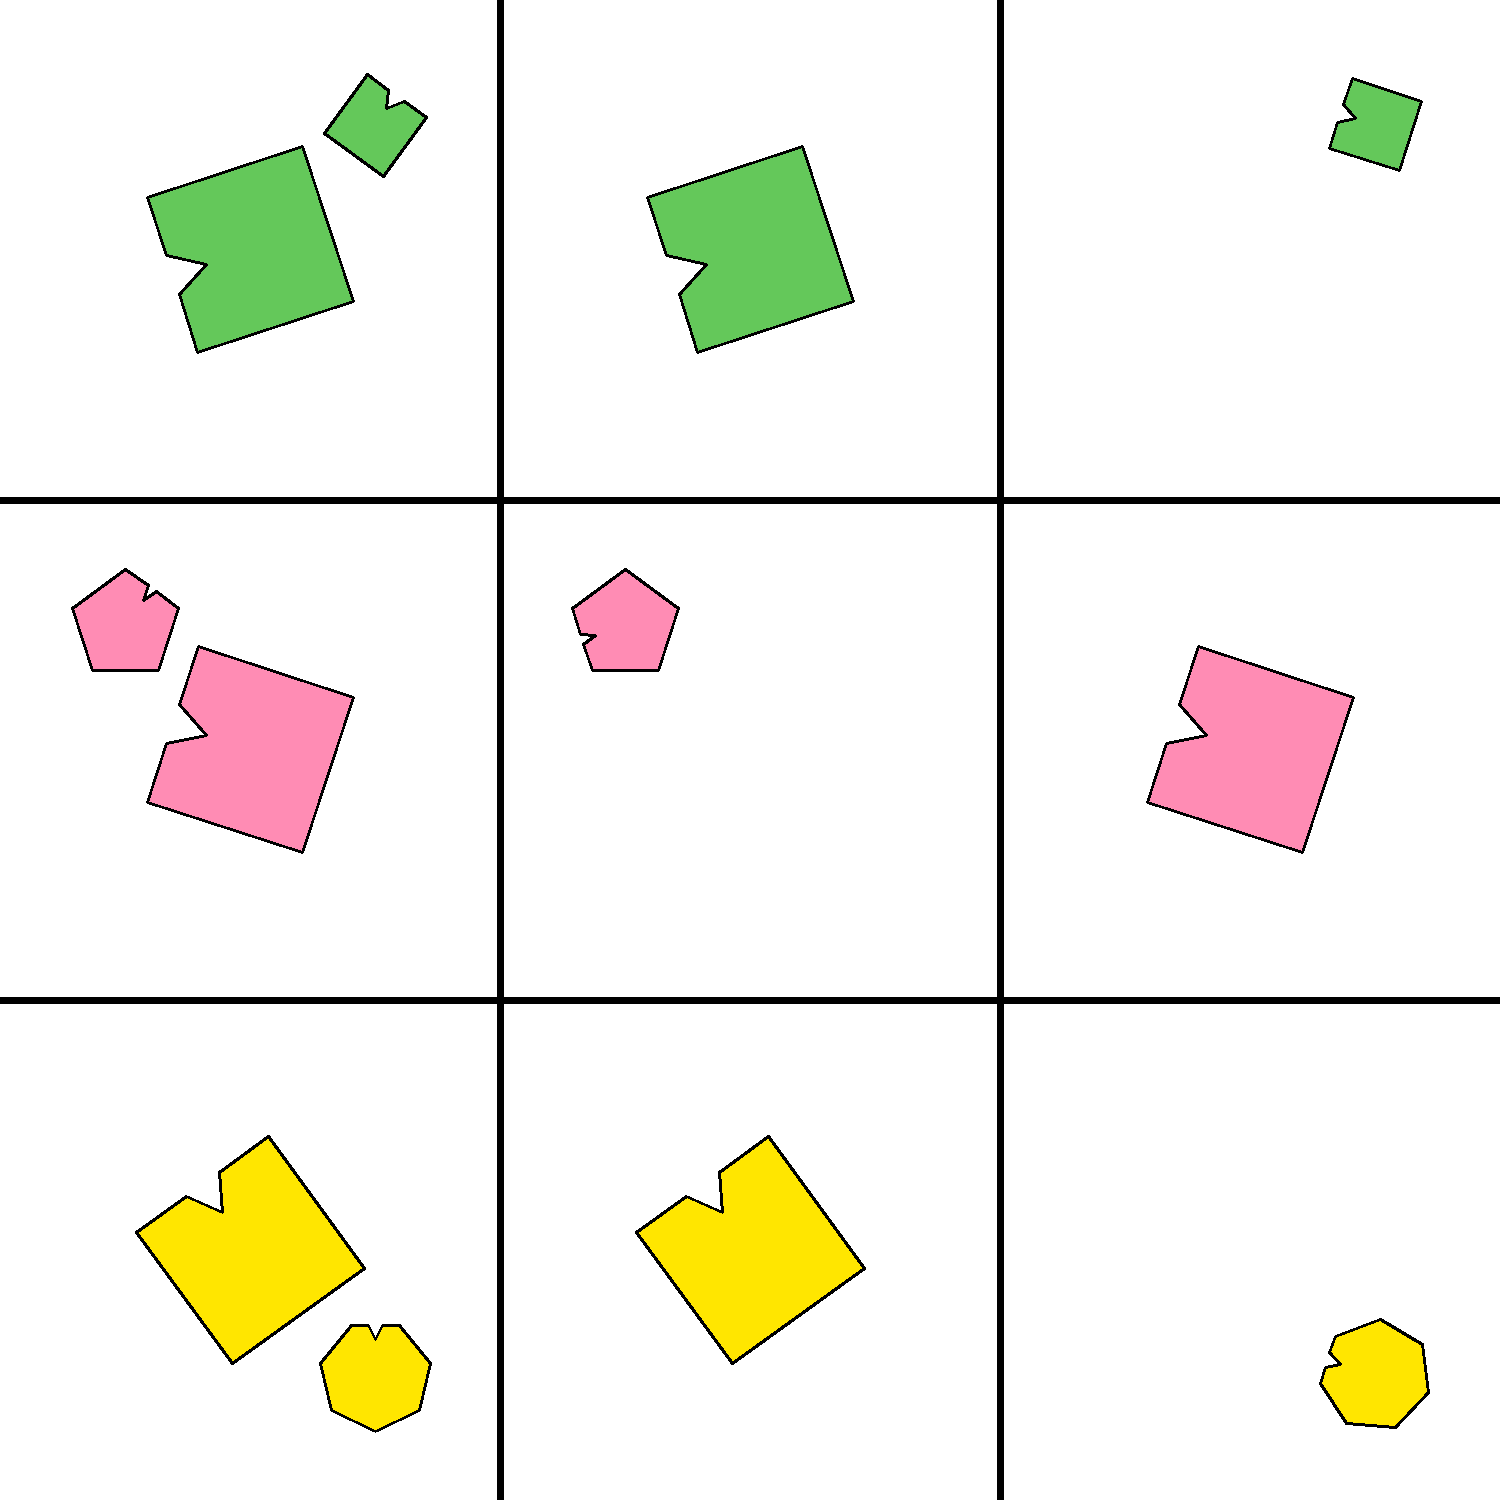
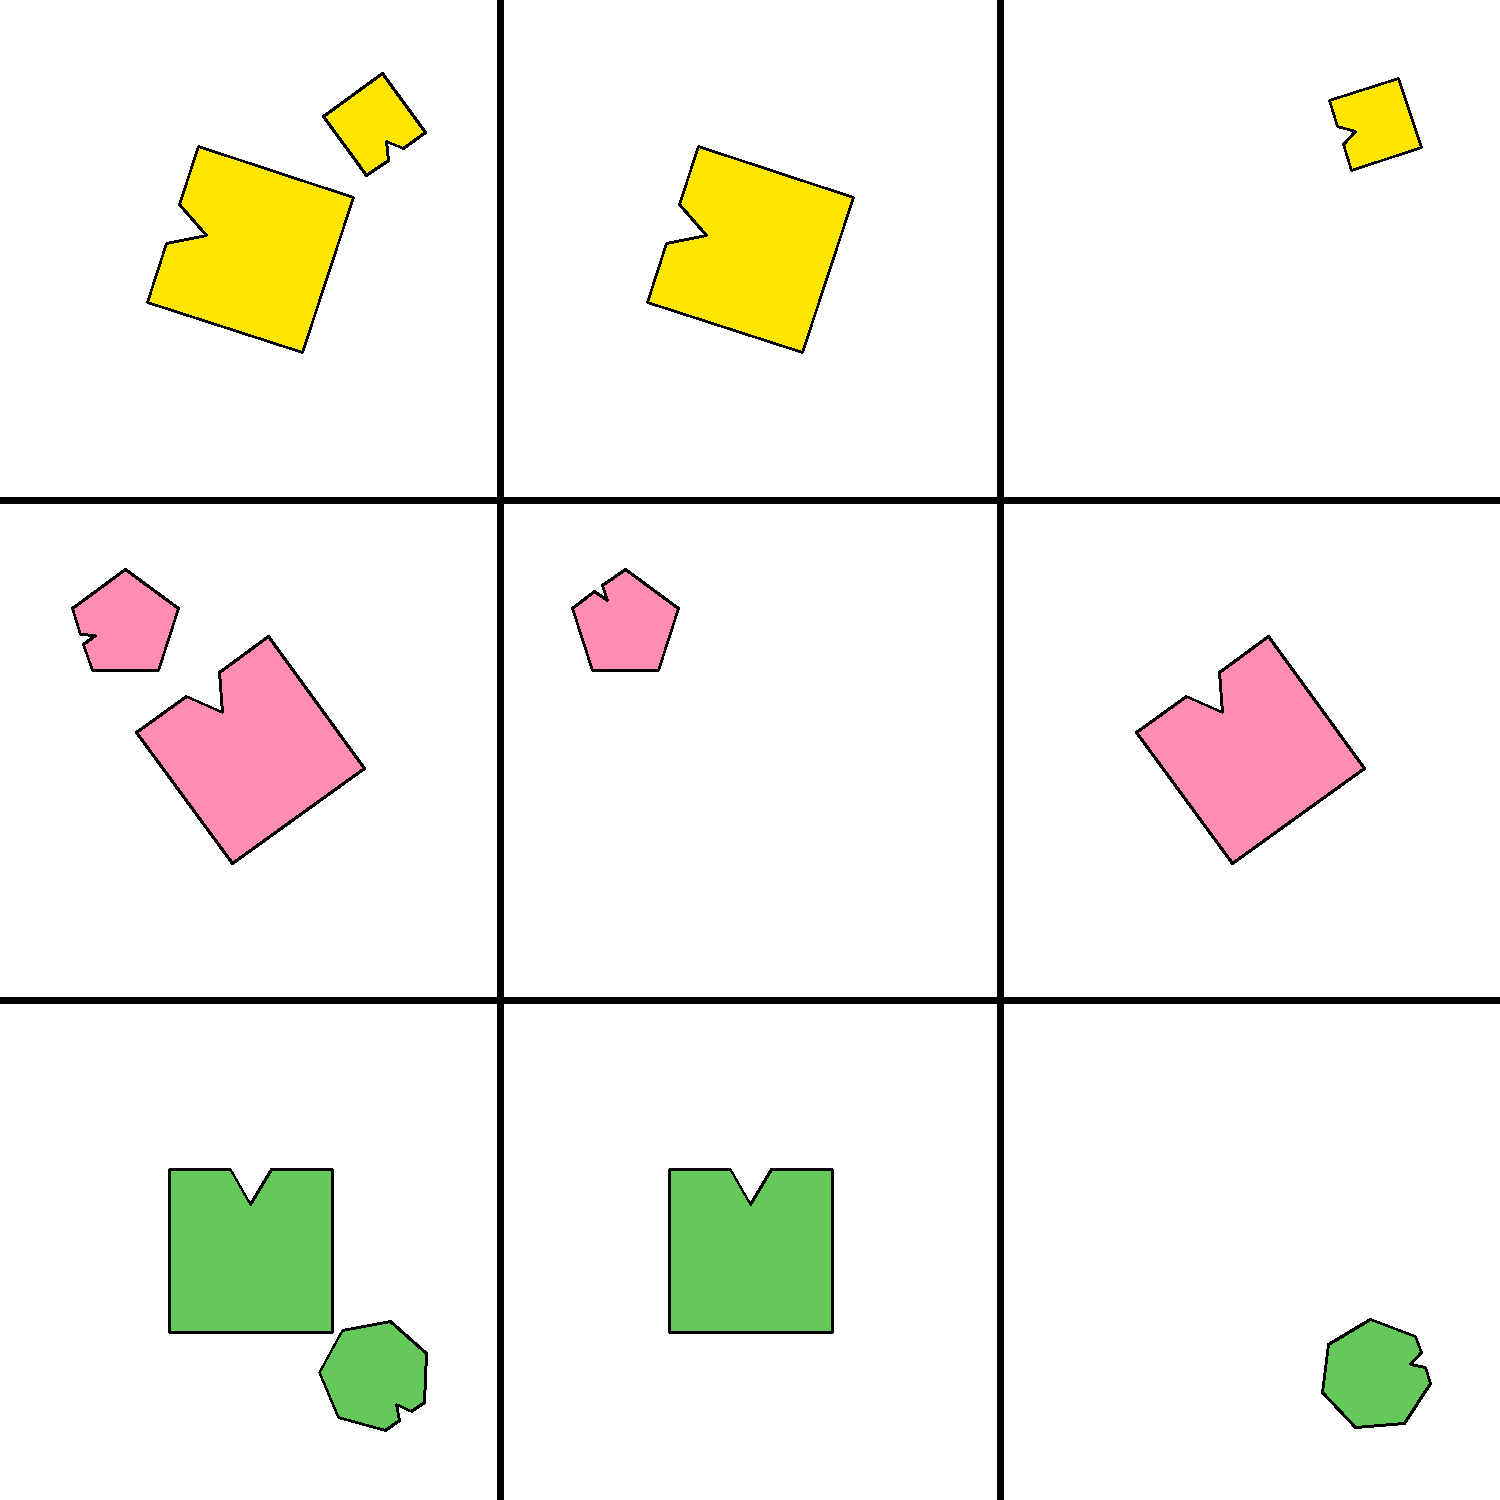
test

diff --git a/main.py b/main.py
@@ -11,7 +11,7 @@ rules = {
         Rule(Ruletype.FULL_CONSTANT, AttributeType.SHAPE, value = 'square'),
         Rule(Ruletype.CONSTANT, AttributeType.ANGLE),
         Rule(Ruletype.CONSTANT, AttributeType.COLOR),
-        Rule(Ruletype.ARITHMETIC, AttributeType.NUMBER, direction = 'subtraction'),
+        Rule(Ruletype.ARITHMETIC, AttributeType.NUMBER),
         Rule(Ruletype.FULL_CONSTANT, AttributeType.SIZE, value = 'medium')],
         
     
@@ -40,6 +40,7 @@ rules = {
 
 # Generate matrix
 
-create_matrix(rules, alternatives=16, seed =12345788912457, alternative_seed =1 , entity_types=['BigShape', 'LittleShape'])
+create_matrix(rules, alternatives=4, seed = None, alternative_seed =None , entity_types=['BigShape', 'LittleShape'])
 
 
+#12345788912457
